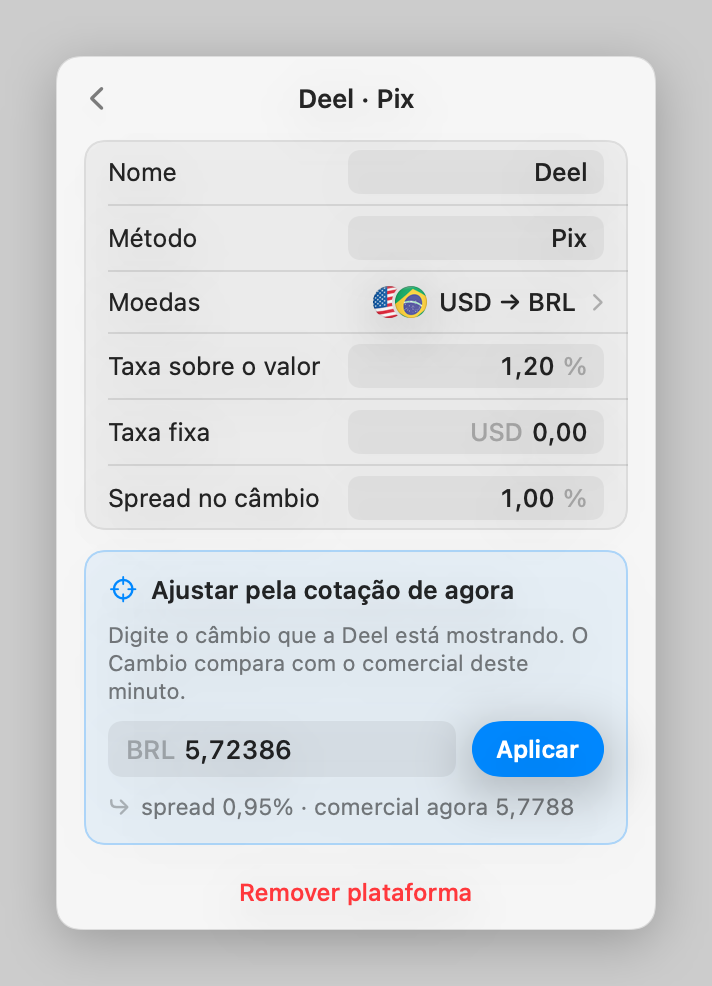
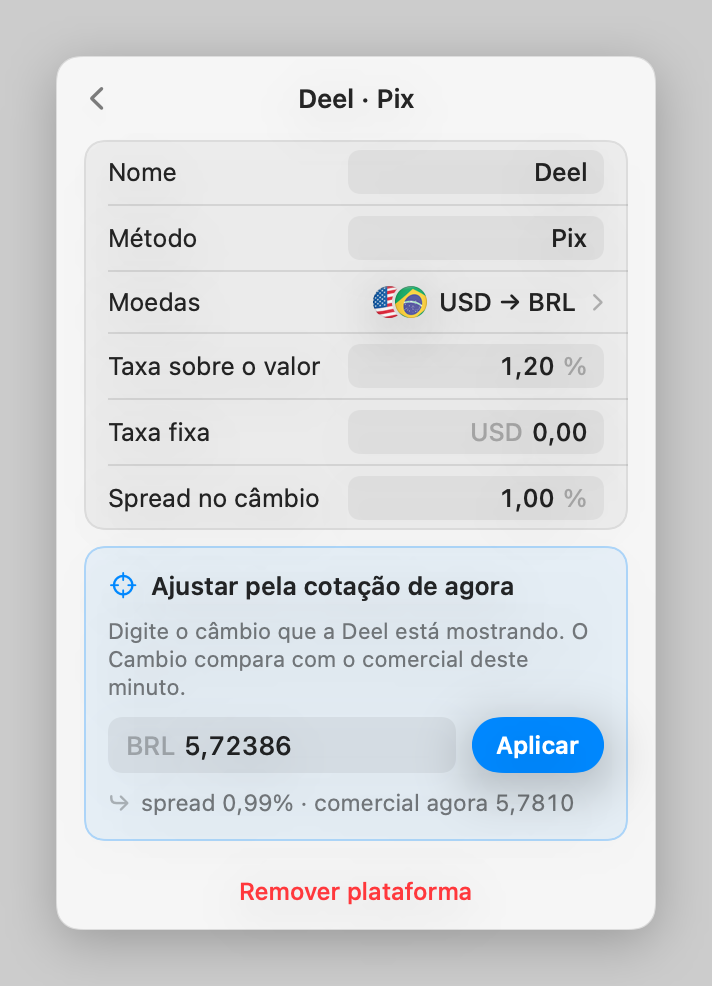
fix: address review findings for receiving platforms
- edit page keeps its title and action pinned and scrolls with 0-1 platforms
- calculator falls back to a source currency still in use
- adjusting needs a live commercial rate; fetch the pair of a platform being set up
- read platform rates in either decimal convention, reject non-finite numbers
- snapshot --edge-cases renders 0- and 1-platform layouts

diff --git a/Sources/Cambio/Views/Platforms/EditPlatformPage.swift b/Sources/Cambio/Views/Platforms/EditPlatformPage.swift
@@ -56,8 +56,13 @@ struct EditPlatformPage: View {
 
     private var commercial: Double? { store.quote(for: platform.pair)?.bid }
 
+    /// Calibrating needs the commercial rate of this minute, not a cached one.
+    private var hasLiveRate: Bool { commercial != nil && store.isFresh(platform.pair, within: 120) }
+
     private var computedSpread: Double? {
-        guard let rate = DecimalInput.parse(observedRate), let commercial else { return nil }
+        guard hasLiveRate, let commercial,
+              let rate = DecimalInput.parseRate(observedRate, near: commercial)
+        else { return nil }
         return Payout.spread(platformRate: rate, commercial: commercial)
     }
 
@@ -67,21 +72,29 @@ struct EditPlatformPage: View {
     }
 
     var body: some View {
+        // Title and action stay pinned; the form scrolls when the panel is short (0–1 platforms).
         VStack(alignment: .leading, spacing: 0) {
             NavBar(verbatim: title, back: back)
-            fields
-                .padding(.horizontal, 14)
-                .padding(.top, 8)
-            calibration
-                .padding(.horizontal, 14)
-                .padding(.top, 10)
+            ScrollIfLive {
+                VStack(alignment: .leading, spacing: 0) {
+                    fields
+                        .padding(.horizontal, 14)
+                        .padding(.top, 8)
+                    calibration
+                        .padding(.horizontal, 14)
+                        .padding(.top, 8)
+                }
+                .padding(.bottom, 4)
+            }
             bottomAction
-                .padding(.top, 12)
-            Spacer(minLength: 0)
+                .padding(.top, 4)
+                .padding(.bottom, 8)
         }
         .frame(maxWidth: .infinity, maxHeight: .infinity, alignment: .top)
         .onExitCommand(perform: back)
-        .task { await store.refreshIfStale(olderThan: 60) }
+        .task(id: platform.pair) {
+            if !store.isFresh(platform.pair, within: 60) { await store.fetchQuote(for: platform.pair) }
+        }
         .onChange(of: name) { _, value in platform.name = value }
         .onChange(of: method) { _, value in platform.method = value }
         .onChange(of: fee) { _, value in
@@ -172,9 +185,11 @@ struct EditPlatformPage: View {
         VStack(alignment: .leading, spacing: 8) {
             HStack(spacing: 6) {
                 Image(systemName: "scope").font(.system(size: 11, weight: .semibold)).foregroundStyle(Color.accentColor)
-                Text("Adjust from the platform's current rate").font(.system(size: 12.5, weight: .semibold))
+                Text("Adjust from the platform's current rate")
+                    .font(.system(size: 12.5, weight: .semibold))
+                    .fixedSize(horizontal: false, vertical: true)
             }
-            Text("Type the rate \(platform.name.isEmpty ? "—" : platform.name) is showing. Cambio compares it with this minute's commercial rate.")
+            calibrationHint
                 .font(.system(size: 11))
                 .foregroundStyle(.secondary)
                 .fixedSize(horizontal: false, vertical: true)
@@ -211,14 +226,14 @@ struct EditPlatformPage: View {
             }
             HStack(spacing: 5) {
                 Image(systemName: "arrow.turn.down.right").font(.system(size: 10, weight: .semibold)).foregroundStyle(.tertiary)
-                if let commercial {
+                if hasLiveRate, let commercial {
                     if let computedSpread {
                         Text("spread \(RateFormat.percent(computedSpread)) · commercial now \(RateFormat.number(commercial, fractionDigits: 4))")
                     } else {
                         Text("commercial now \(RateFormat.number(commercial, fractionDigits: 4))")
                     }
                 } else {
-                    Text("No commercial rate yet")
+                    Text("No live commercial rate right now")
                 }
             }
             .font(.system(size: 11.5))
@@ -231,6 +246,13 @@ struct EditPlatformPage: View {
             RoundedRectangle(cornerRadius: 10, style: .continuous)
                 .strokeBorder(Color.accentColor.opacity(0.25), lineWidth: 1)
         )
+    }
+
+    private var calibrationHint: Text {
+        let name = platform.name.trimmingCharacters(in: .whitespaces)
+        return name.isEmpty
+            ? Text("Type the rate the platform is showing. Cambio compares it with this minute's commercial rate.")
+            : Text("Type the rate \(name) is showing. Cambio compares it with this minute's commercial rate.")
     }
 
     // MARK: Add or remove

diff --git a/Sources/Cambio/Snapshot.swift b/Sources/Cambio/Snapshot.swift
@@ -2,10 +2,11 @@ import AppKit
 import CambioCore
 import SwiftUI
 
-/// Renders the README screenshots with live data: main page and picker, light and dark.
+/// Renders the README screenshots with live data, light and dark: main page, currency picker,
+/// calculator, platforms and edit. Edge cases (zero and one platform) guard the layout.
 @MainActor
 enum Snapshot {
-    static func render(to directory: URL) async {
+    static func render(to directory: URL, edgeCases: Bool = false) async {
         try? FileManager.default.createDirectory(at: directory, withIntermediateDirectories: true)
         // In-memory settings, so screenshots never touch the real ones or write files.
         let platforms = PlatformStore(settings: InMemorySettings())
@@ -31,33 +32,53 @@ enum Snapshot {
             ("edit-dark", .dark, [.edit(deel)], .base),
         ]
         for shot in shots {
-            let dark = shot.scheme == .dark
-            let scene = PanelView(
+            write(PanelView(
                 store: store,
                 launchAtLogin: launchAtLogin,
                 platforms: platforms,
                 path: shot.path,
                 pickerSlot: shot.slot,
                 exampleObservedRate: RateFormat.number(5.72386, fractionDigits: 5)
-            )
-                .background(dark ? Color(red: 0.165, green: 0.165, blue: 0.175) : Color(red: 0.965, green: 0.965, blue: 0.965))
-                .clipShape(RoundedRectangle(cornerRadius: 12, style: .continuous))
-                .overlay(
-                    RoundedRectangle(cornerRadius: 12, style: .continuous)
-                        .strokeBorder(Color.primary.opacity(0.12), lineWidth: 0.5)
-                )
-                .shadow(color: .black.opacity(0.25), radius: 14, y: 6)
-                .padding(28)
-                .background(dark ? Color(white: 0.06) : Color(white: 0.80))
-                .environment(\.colorScheme, shot.scheme)
-                .environment(\.isSnapshot, true)
+            ), scheme: shot.scheme, to: directory.appendingPathComponent("\(shot.name).png"))
+        }
 
-            let renderer = ImageRenderer(content: scene)
-            renderer.scale = 2
-            if let tiff = renderer.nsImage?.tiffRepresentation,
-               let png = NSBitmapImageRep(data: tiff)?.representation(using: .png, properties: [:]) {
-                try? png.write(to: directory.appendingPathComponent("\(shot.name).png"))
-            }
+        guard edgeCases else { return }
+        let none = PlatformStore(settings: InMemorySettings())
+        let one = PlatformStore(settings: InMemorySettings())
+        one.add(Platform.deelPix.instantiated())
+        let edges: [(name: String, platforms: PlatformStore, path: [PanelRoute])] = [
+            ("edge-0-main", none, []),
+            ("edge-0-calculator", none, [.calculator]),
+            ("edge-0-new", none, [.newPlatform]),
+            ("edge-1-edit", one, [.edit(one.platforms[0].id)]),
+            ("edge-1-new", one, [.newPlatform]),
+        ]
+        for edge in edges {
+            write(PanelView(store: store, launchAtLogin: launchAtLogin, platforms: edge.platforms, path: edge.path),
+                  scheme: .light, to: directory.appendingPathComponent("\(edge.name).png"))
+        }
+    }
+
+    private static func write(_ panel: PanelView, scheme: ColorScheme, to file: URL) {
+        let dark = scheme == .dark
+        let scene = panel
+            .background(dark ? Color(red: 0.165, green: 0.165, blue: 0.175) : Color(red: 0.965, green: 0.965, blue: 0.965))
+            .clipShape(RoundedRectangle(cornerRadius: 12, style: .continuous))
+            .overlay(
+                RoundedRectangle(cornerRadius: 12, style: .continuous)
+                    .strokeBorder(Color.primary.opacity(0.12), lineWidth: 0.5)
+            )
+            .shadow(color: .black.opacity(0.25), radius: 14, y: 6)
+            .padding(28)
+            .background(dark ? Color(white: 0.06) : Color(white: 0.80))
+            .environment(\.colorScheme, scheme)
+            .environment(\.isSnapshot, true)
+
+        let renderer = ImageRenderer(content: scene)
+        renderer.scale = 2
+        if let tiff = renderer.nsImage?.tiffRepresentation,
+           let png = NSBitmapImageRep(data: tiff)?.representation(using: .png, properties: [:]) {
+            try? png.write(to: file)
         }
     }
 }

diff --git a/Sources/CambioCore/RateStore.swift b/Sources/CambioCore/RateStore.swift
@@ -21,6 +21,8 @@ public final class RateStore {
     @ObservationIgnored private let now: @Sendable () -> Date
     @ObservationIgnored private let extraPairs: @MainActor () -> Set<CurrencyPair>
     @ObservationIgnored private var lastSuccess: Date?
+    /// When each pair's quote was last fetched in this session (cached quotes don't count).
+    @ObservationIgnored private var fetchedAt: [CurrencyPair: Date] = [:]
     @ObservationIgnored private var lastHistorySuccess: Date?
     @ObservationIgnored private var lastCatalogSuccess: Date?
     /// Only the most recently started refresh may change state; older ones finish silently.
@@ -80,6 +82,8 @@ public final class RateStore {
             return
         }
         quotes.merge(fetched) { _, new in new }
+        let fetchTime = now()
+        for pair in fetched.keys { fetchedAt[pair] = fetchTime }
         quote = latest
         isOffline = false
         lastSuccess = now()
@@ -91,6 +95,23 @@ public final class RateStore {
             history = points
             lastHistorySuccess = now()
         }
+    }
+
+    /// True when the pair's quote came from the network less than `seconds` ago.
+    public func isFresh(_ pair: CurrencyPair, within seconds: TimeInterval) -> Bool {
+        fetchedAt[pair].map { now().timeIntervalSince($0) < seconds } ?? false
+    }
+
+    /// Fetches one pair right away, e.g. a platform being set up whose pair nothing tracks yet.
+    /// A failure leaves things as they were and does not mark the app offline.
+    public func fetchQuote(for pair: CurrencyPair) async {
+        if pair == self.pair {
+            await refresh()
+            return
+        }
+        guard let fetched = try? await client.latest([pair]), let quote = fetched[pair] else { return }
+        quotes[pair] = quote
+        fetchedAt[pair] = now()
     }
 
     /// The latest quote for any pair in use: the bar's own, or a platform's.

diff --git a/Sources/Cambio/Views/Platforms/CalculatorPage.swift b/Sources/Cambio/Views/Platforms/CalculatorPage.swift
@@ -9,7 +9,8 @@ struct CalculatorPage: View {
     let back: () -> Void
 
     @State private var amountText: String
-    @State private var base: String
+    /// The currency the person picked; falls back when no platform uses it any more.
+    @State private var preferredBase: String?
     @Environment(\.isSnapshot) private var isSnapshot
 
     private static let quickAmounts: [Double] = [1000, 2000, 5000, 10000]
@@ -20,7 +21,6 @@ struct CalculatorPage: View {
         self.edit = edit
         self.back = back
         _amountText = State(initialValue: Self.text(for: platforms.calculatorAmount))
-        _base = State(initialValue: platforms.baseCurrencies.first ?? store.pair.base)
     }
 
     private static func text(for amount: Double) -> String {
@@ -28,6 +28,10 @@ struct CalculatorPage: View {
     }
 
     private var amount: Double { platforms.calculatorAmount }
+
+    private var base: String {
+        platforms.baseCurrency(preferring: preferredBase, fallback: store.pair.base)
+    }
 
     private var visible: [Platform] {
         platforms.platforms.filter { $0.pair.base == base }
@@ -111,7 +115,7 @@ struct CalculatorPage: View {
         if bases.count > 1, !isSnapshot {
             Menu {
                 ForEach(bases, id: \.self) { code in
-                    Button(code) { base = code }
+                    Button(code) { preferredBase = code }
                 }
             } label: {
                 CurrencyBadge(code: base, size: 22)

diff --git a/Sources/CambioCore/DecimalInput.swift b/Sources/CambioCore/DecimalInput.swift
@@ -25,8 +25,21 @@ public enum DecimalInput {
         let fraction = parts.count == 2 ? String(parts[1]) : ""
         guard fraction.allSatisfy(\.isNumber) else { return nil }
 
-        guard let integer = digits(ofGrouped: String(parts[0])) else { return nil }
-        return Double((integer.isEmpty ? "0" : integer) + (fraction.isEmpty ? "" : "." + fraction))
+        guard let integer = digits(ofGrouped: String(parts[0])),
+              let value = Double((integer.isEmpty ? "0" : integer) + (fraction.isEmpty ? "" : "." + fraction)),
+              value.isFinite
+        else { return nil }
+        return value
+    }
+
+    /// Reads an exchange rate a platform shows, which may use either convention whatever the
+    /// person's locale ("5.723" on an English site). Of the two readings, keeps the one
+    /// closest to `reference` (the commercial rate).
+    public static func parseRate(_ text: String, near reference: Double, locale: Locale = .current) -> Double? {
+        let other = Locale(identifier: (locale.decimalSeparator ?? ".") == "," ? "en_US" : "pt_BR")
+        let candidates = [parse(text, locale: locale), parse(text, locale: other)].compactMap { $0 }.filter { $0 > 0 }
+        guard reference > 0 else { return candidates.first }
+        return candidates.min { abs(log($0 / reference)) < abs(log($1 / reference)) }
     }
 
     private static func decimalSeparator(in text: String, locale: Locale) -> Character? {

diff --git a/Tests/CambioCoreTests/RateStoreTests.swift b/Tests/CambioCoreTests/RateStoreTests.swift
@@ -194,4 +194,37 @@ struct RateStoreTests {
         store.stop()
         #expect(!store.isRunning)
     }
+
+    @Test func freshnessTracksSuccessfulFetches() async {
+        let store = makeStore(extraPairs: [eurBrl])
+        #expect(!store.isFresh(.usdBrl, within: 120))
+        await store.refresh()
+        #expect(store.isFresh(.usdBrl, within: 120))
+        #expect(store.isFresh(eurBrl, within: 120))
+        clock.now += 200
+        #expect(!store.isFresh(.usdBrl, within: 120))
+        await client.setFailLatest(true)
+        await store.refresh()
+        #expect(!store.isFresh(.usdBrl, within: 120))
+    }
+
+    @Test func cachedQuoteIsNotFresh() async {
+        let first = makeStore()
+        await first.refresh()
+        let second = makeStore()
+        #expect(second.quote != nil)
+        #expect(!second.isFresh(.usdBrl, within: 120))
+    }
+
+    @Test func fetchQuoteForUntrackedPair() async {
+        let store = makeStore()
+        await store.fetchQuote(for: eurBrl)
+        #expect(store.quote(for: eurBrl)?.pair == eurBrl)
+        #expect(store.isFresh(eurBrl, within: 60))
+        await client.setFailLatest(true)
+        let gbpBrl = CurrencyPair(base: "GBP", quote: "BRL")
+        await store.fetchQuote(for: gbpBrl)
+        #expect(store.quote(for: gbpBrl) == nil)
+        #expect(!store.isOffline)
+    }
 }

diff --git a/Tests/CambioCoreTests/DecimalInputTests.swift b/Tests/CambioCoreTests/DecimalInputTests.swift
@@ -21,4 +21,17 @@ struct DecimalInputTests {
         #expect(DecimalInput.parse("5.000", locale: enUS) == 5.0)
         #expect(DecimalInput.parse("5,000", locale: enUS) == 5000)
     }
+
+    @Test func rateNearReference() {
+        // Platforms often show rates with a dot ("5.723") even for pt_BR users, and vice versa.
+        #expect(DecimalInput.parseRate("5.723", near: 5.78, locale: ptBR) == 5.723)
+        #expect(DecimalInput.parseRate("5,723", near: 5.78, locale: enUS) == 5.723)
+        #expect(DecimalInput.parseRate("5,72386", near: 5.78, locale: ptBR) == 5.72386)
+        #expect(DecimalInput.parseRate("5.72386", near: 5.78, locale: ptBR) == 5.72386)
+        #expect(DecimalInput.parseRate("abc", near: 5.78, locale: ptBR) == nil)
+    }
+
+    @Test func rejectsNonFinite() {
+        #expect(DecimalInput.parse(String(repeating: "9", count: 400), locale: ptBR) == nil)
+    }
 }

diff --git a/Sources/Cambio/Main.swift b/Sources/Cambio/Main.swift
@@ -3,6 +3,7 @@ import AppKit
 @main
 enum Main {
     /// `Cambio --snapshot <dir>` renders the README screenshots and exits.
+    /// Add `--edge-cases` to also render layouts with zero and one platform (layout checks).
     @MainActor
     static func main() {
         let args = CommandLine.arguments
@@ -10,7 +11,7 @@ enum Main {
             let directory = URL(fileURLWithPath: args[index + 1], isDirectory: true)
             NSApplication.shared.setActivationPolicy(.prohibited)
             Task { @MainActor in
-                await Snapshot.render(to: directory)
+                await Snapshot.render(to: directory, edgeCases: args.contains("--edge-cases"))
                 exit(0)
             }
             NSApplication.shared.run()

diff --git a/Sources/CambioCore/PlatformStore.swift b/Sources/CambioCore/PlatformStore.swift
@@ -55,6 +55,14 @@ public final class PlatformStore {
         Set(platforms.map(\.pair))
     }
 
+    /// The calculator's source currency: the preferred one while some platform still uses it,
+    /// otherwise the first one in use, otherwise `fallback` (the menu bar's).
+    public func baseCurrency(preferring preferred: String?, fallback: String) -> String {
+        let bases = baseCurrencies
+        if let preferred, bases.contains(preferred) { return preferred }
+        return bases.first ?? fallback
+    }
+
     /// Source currencies in the order they first appear.
     public var baseCurrencies: [String] {
         var seen: [String] = []

diff --git a/Tests/CambioCoreTests/PlatformStoreTests.swift b/Tests/CambioCoreTests/PlatformStoreTests.swift
@@ -81,4 +81,12 @@ struct PlatformStoreTests {
         store.calculatorAmount = -10
         #expect(store.calculatorAmount == 0)
     }
+
+    @Test func baseFallsBackWhenPreferredIsGone() {
+        let store = PlatformStore(settings: settings)
+        #expect(store.baseCurrency(preferring: "EUR", fallback: "EUR") == "EUR")
+        store.add(Platform.deelPix.instantiated())
+        #expect(store.baseCurrency(preferring: "EUR", fallback: "EUR") == "USD")
+        #expect(store.baseCurrency(preferring: "USD", fallback: "EUR") == "USD")
+    }
 }
